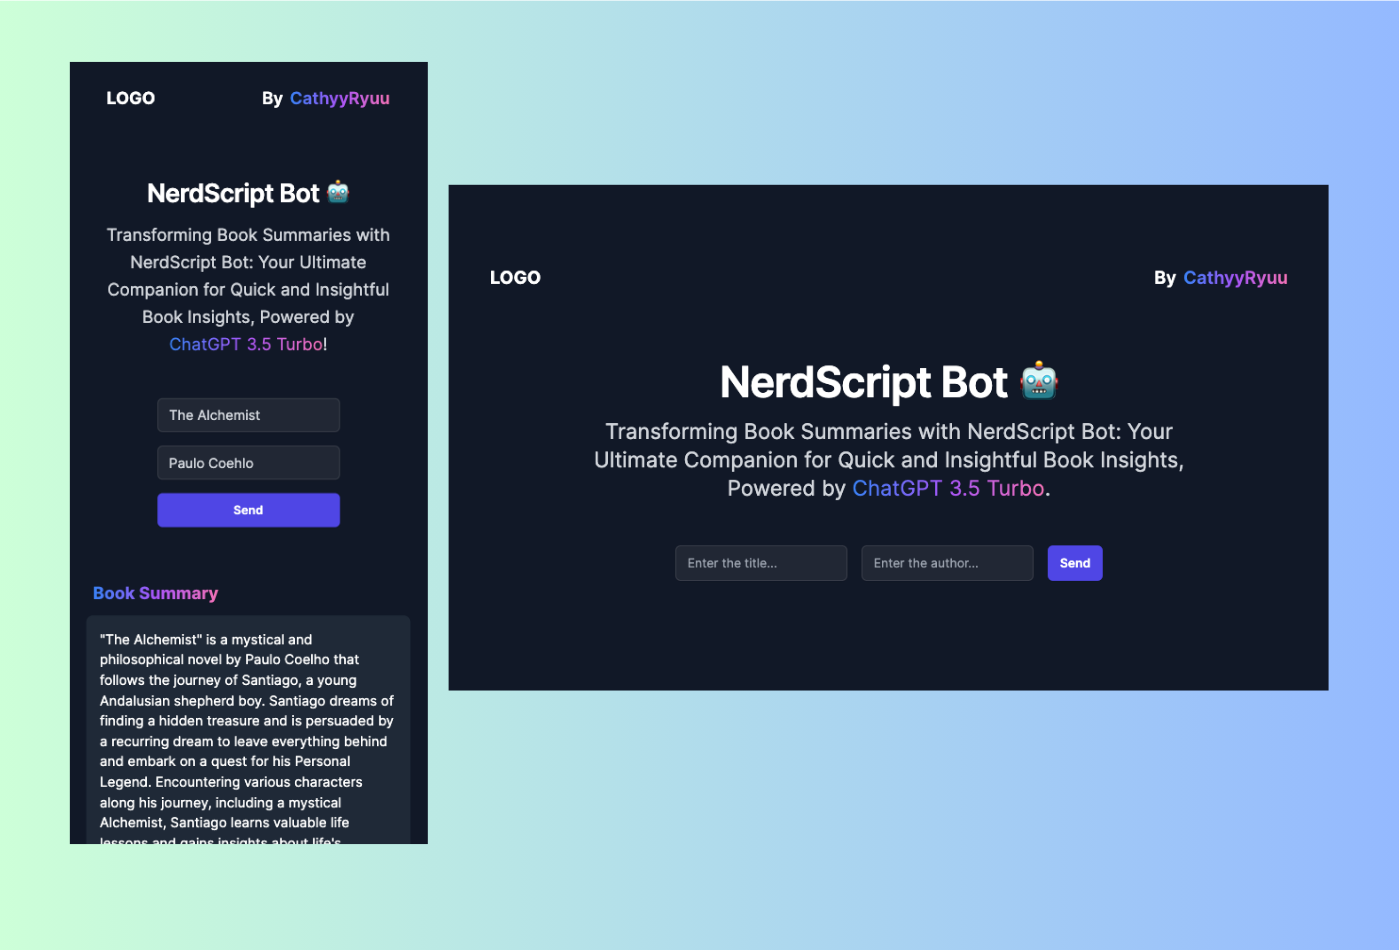
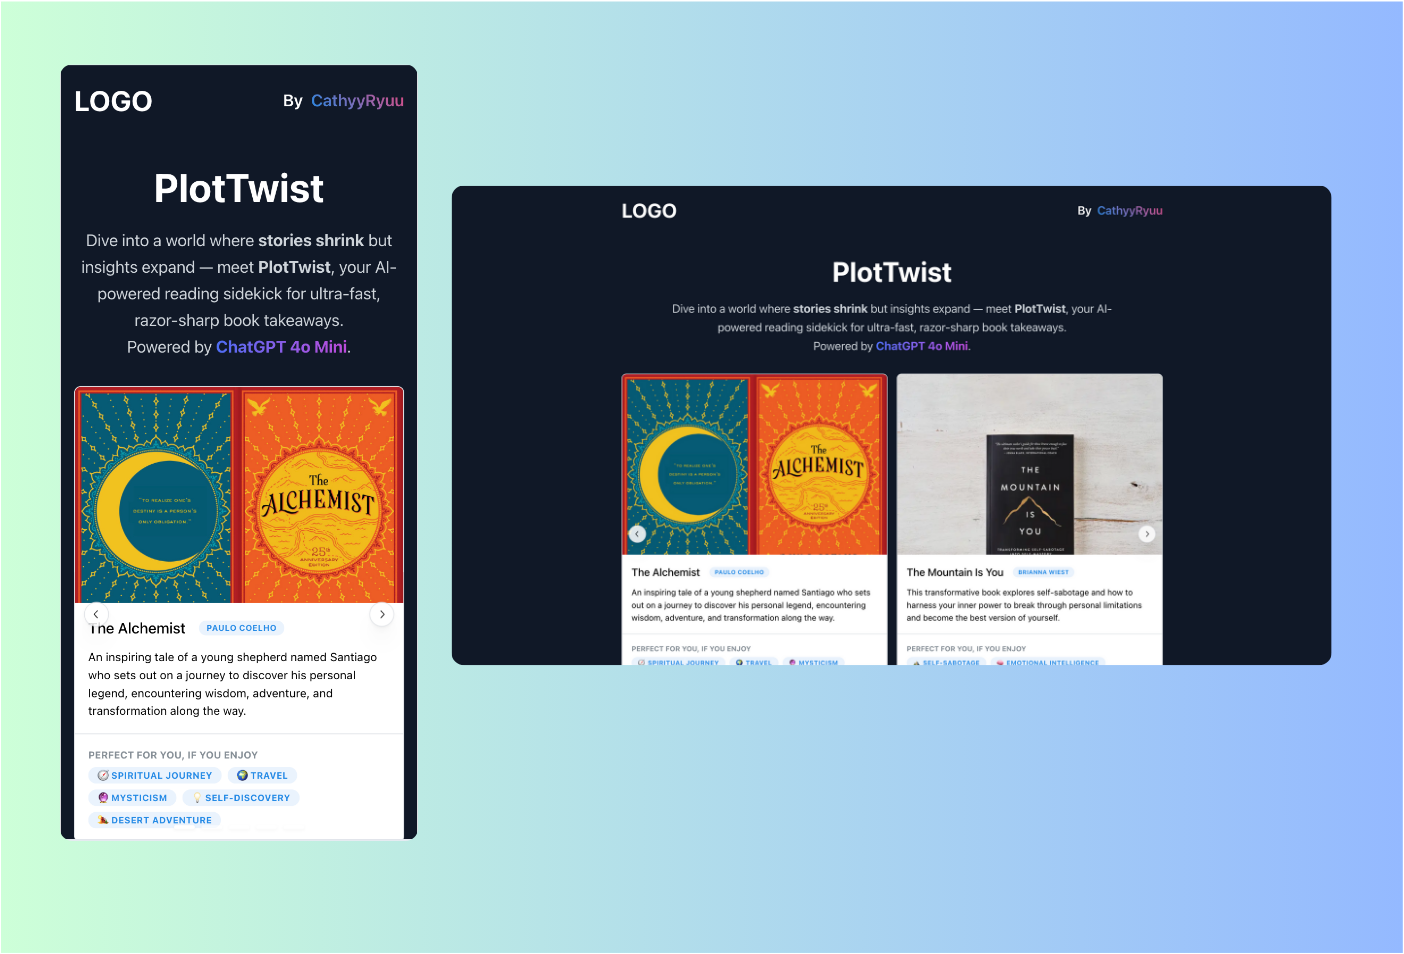
update project images & description

diff --git a/app/data/ProjectData.js b/app/data/ProjectData.js
@@ -56,13 +56,13 @@ const projectsData = [
   },
   {
     id: 6,
-    title: "NerdScript Bot🤖",
-    description: "NerdScript Bot is your ultimate companion in the world of literature, transforming lengthy book summaries into concise and insightful nuggets of knowledge.",
+    title: "PlotTwist",
+    description: "PlotTwist is your ultimate companion in the world of literature, transforming lengthy book summaries into concise and insightful nuggets of knowledge.",
     image: "/images/projects/book-summary-app.png",
     tag: ["All", "Web"],
     gitUrl: "https://github.com/CathyyRyuu",
     previewUrl: "https://book-summary-app.vercel.app/",
-    techStack: ["Next.js", "Tailwind CSS", "ChatGPT 3.5 Turbo", "Vercel"],
+    techStack: ["Next.js", "Tailwind CSS", "Mantine UI", "ChatGPT 4o Mini", "Vercel"],
     status: "Deployed",
   },
 ];
